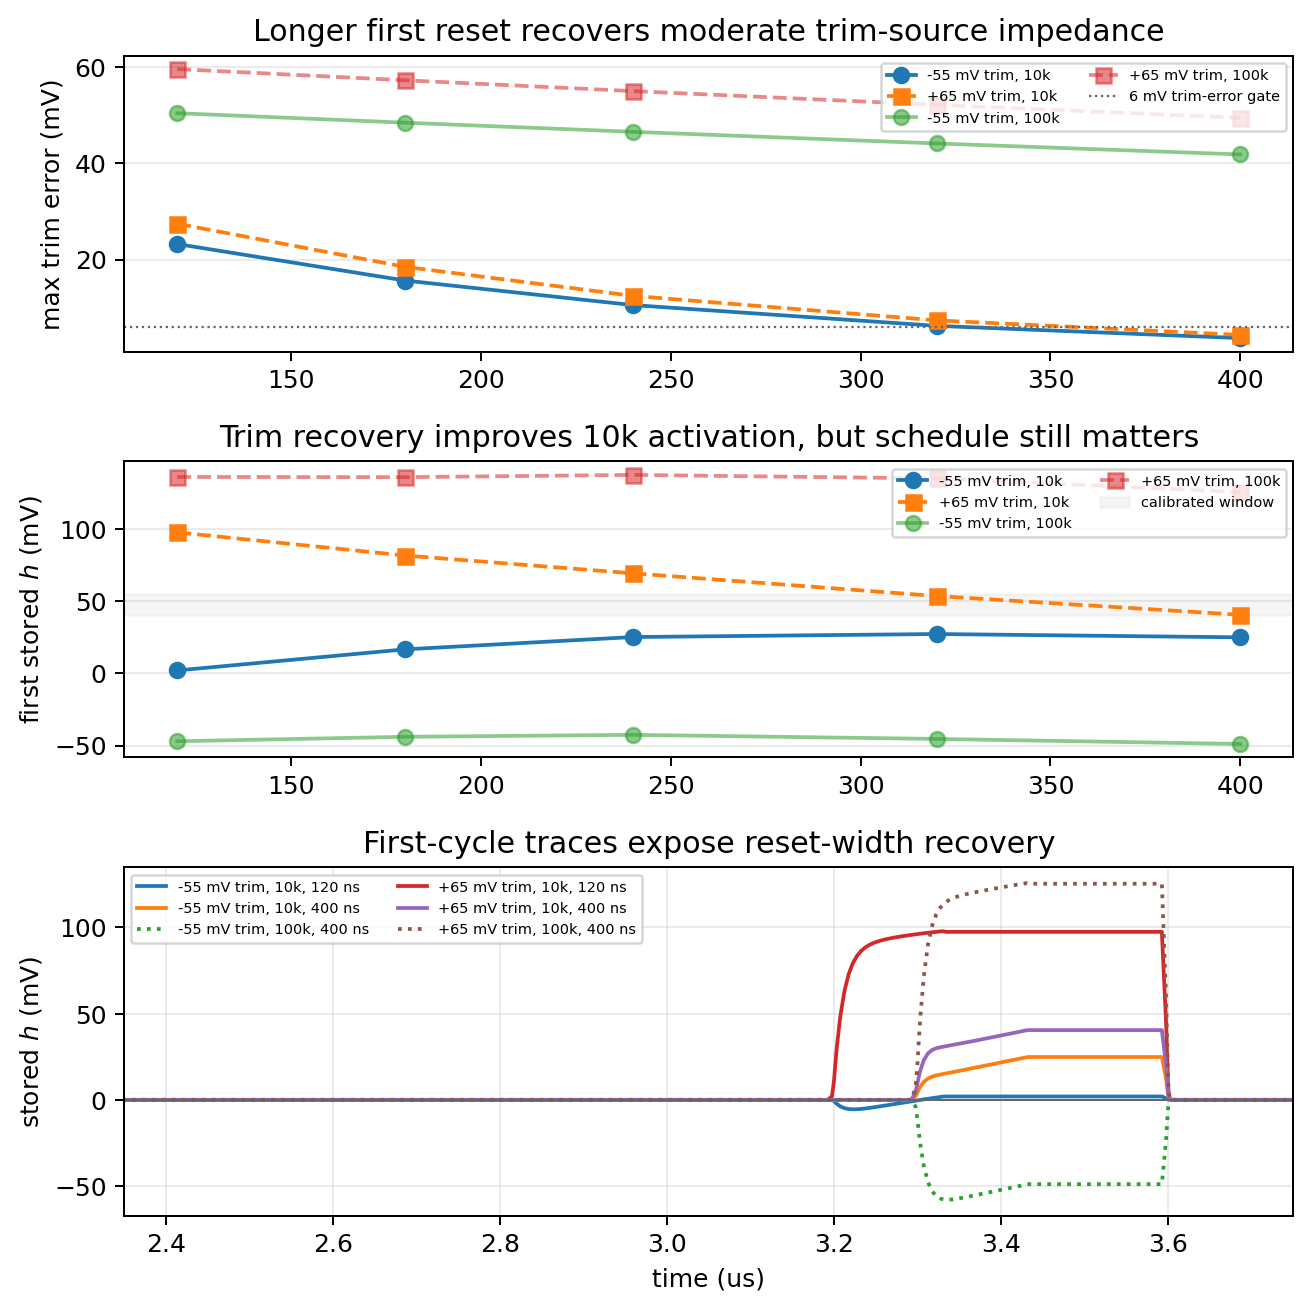
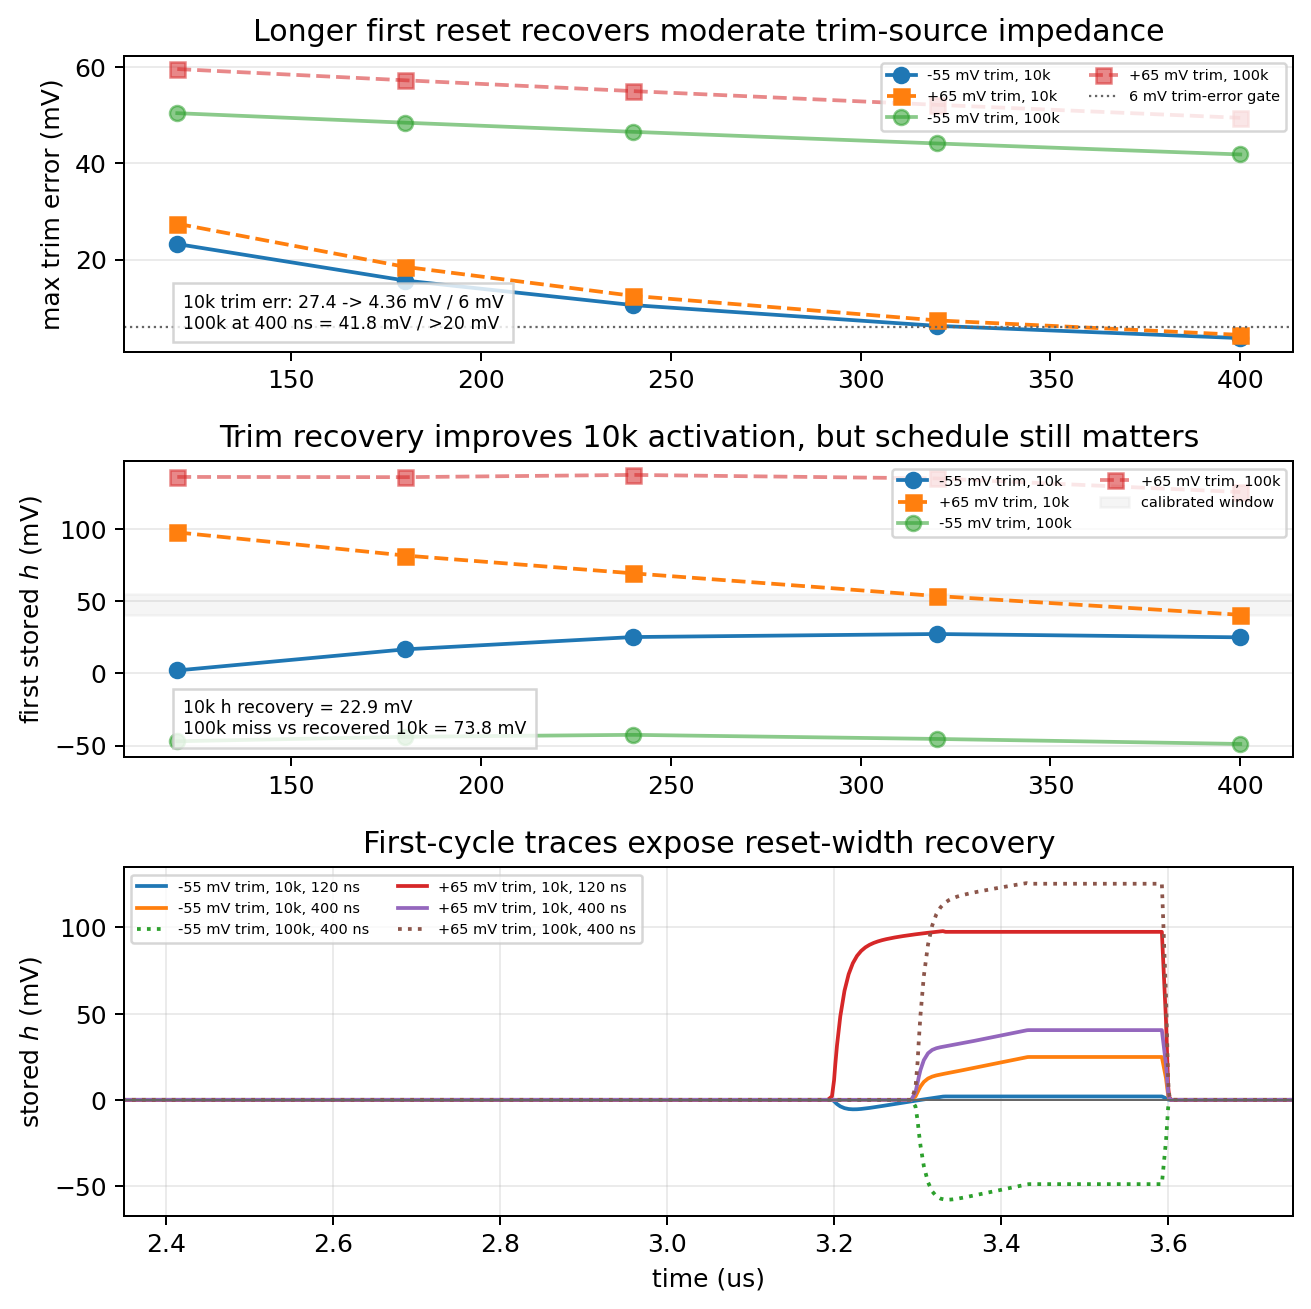
Annotate reset reference width recovery

Changed region(s): [[0.122, 0.2139, 0.3966, 0.275], [0.122, 0.5195, 0.4272, 0.5806]]

diff --git a/spice/run_mos_cell_characterization.py b/spice/run_mos_cell_characterization.py
@@ -14807,6 +14807,18 @@ quit
     shift_refz_width_axes[0].set_ylabel("max trim error (mV)")
     shift_refz_width_axes[0].set_title("Longer first reset recovers moderate trim-source impedance")
     shift_refz_width_axes[0].grid(True, axis="y", alpha=0.25)
+    shift_refz_width_axes[0].text(
+        0.05,
+        0.08,
+        "10k trim err: "
+        f"{1e3 * np.max(shift_refz_width_trim_error[:, r10k_idx, 0]):.1f} -> "
+        f"{1e3 * np.max(shift_refz_width_trim_error[:, r10k_idx, -1]):.2f} mV / 6 mV\n"
+        "100k at 400 ns = "
+        f"{1e3 * np.min(shift_refz_width_trim_error[:, r100k_idx, -1]):.1f} mV / >20 mV",
+        transform=shift_refz_width_axes[0].transAxes,
+        fontsize="x-small",
+        bbox={"facecolor": "white", "alpha": 0.82, "edgecolor": "0.8"},
+    )
     shift_refz_width_axes[0].legend(loc="upper right", ncol=2, fontsize="xx-small")
     for source_idx, (_source_name, source_label, _series_ohm) in enumerate(shift_refz_width_source_cases):
         for branch_idx, (_branch_name, branch_label, _nfp, _nfm, _trim) in enumerate(shift_reset_branch_specs):
@@ -14823,6 +14835,17 @@ quit
     shift_refz_width_axes[1].set_ylabel("first stored $h$ (mV)")
     shift_refz_width_axes[1].set_title("Trim recovery improves 10k activation, but schedule still matters")
     shift_refz_width_axes[1].grid(True, axis="y", alpha=0.25)
+    shift_refz_width_axes[1].text(
+        0.05,
+        0.08,
+        "10k h recovery = "
+        f"{1e3 * np.min(np.abs(shift_refz_width_h_sample[:, r10k_idx, -1] - shift_refz_width_h_sample[:, r10k_idx, 0])):.1f} mV\n"
+        "100k miss vs recovered 10k = "
+        f"{1e3 * np.min(np.abs(shift_refz_width_h_sample[:, r100k_idx, -1] - shift_refz_width_h_sample[:, r10k_idx, -1])):.1f} mV",
+        transform=shift_refz_width_axes[1].transAxes,
+        fontsize="x-small",
+        bbox={"facecolor": "white", "alpha": 0.82, "edgecolor": "0.8"},
+    )
     shift_refz_width_axes[1].legend(loc="upper right", ncol=2, fontsize="xx-small")
     for branch_label, source_label, width_label, rwt, store in shift_refz_width_traces:
         if source_label == "100k" and width_label == "120 ns":

diff --git a/engineering_log.md b/engineering_log.md
@@ -2,6 +2,17 @@
 
 ## 2026-05-25
 
+- Clarified the shifted-gate first-reset width recovery plot.  The ngspice
+  deck sweeps first-reset aperture for \(10\)k and \(100\)k trim-source
+  impedances and already asserted monotonic \(10\)k trim-error improvement,
+  \(10\)k recovery below the \(6\) mV trim-error gate at \(400\) ns, visible
+  \(10\)k first-cycle activation recovery, and continued \(100\)k failure at
+  \(400\) ns.  The regenerated
+  `mos_hidden_writer_restored_gate_hybrid_update_forward_guard_forward_pair_96u_shifted_gate_reset_ref_width_ngspice`
+  plot now labels the measured schedule limits: \(10\)k trim error improves
+  from \(27.4\) to \(4.36\) mV, \(100\)k remains at \(41.8\) mV trim error at
+  \(400\) ns, \(10\)k first-cycle activation recovery is \(22.9\) mV, and
+  \(100\)k still misses the recovered \(10\)k activation by \(73.8\) mV.
 - Clarified the shifted-gate reset-reference source-impedance limit plot.  The
   ngspice deck sweeps ideal through \(3\)M trim-reference source impedance
   and already asserted that \(0\)--\(1\)k preserves split trim below \(1\) mV
